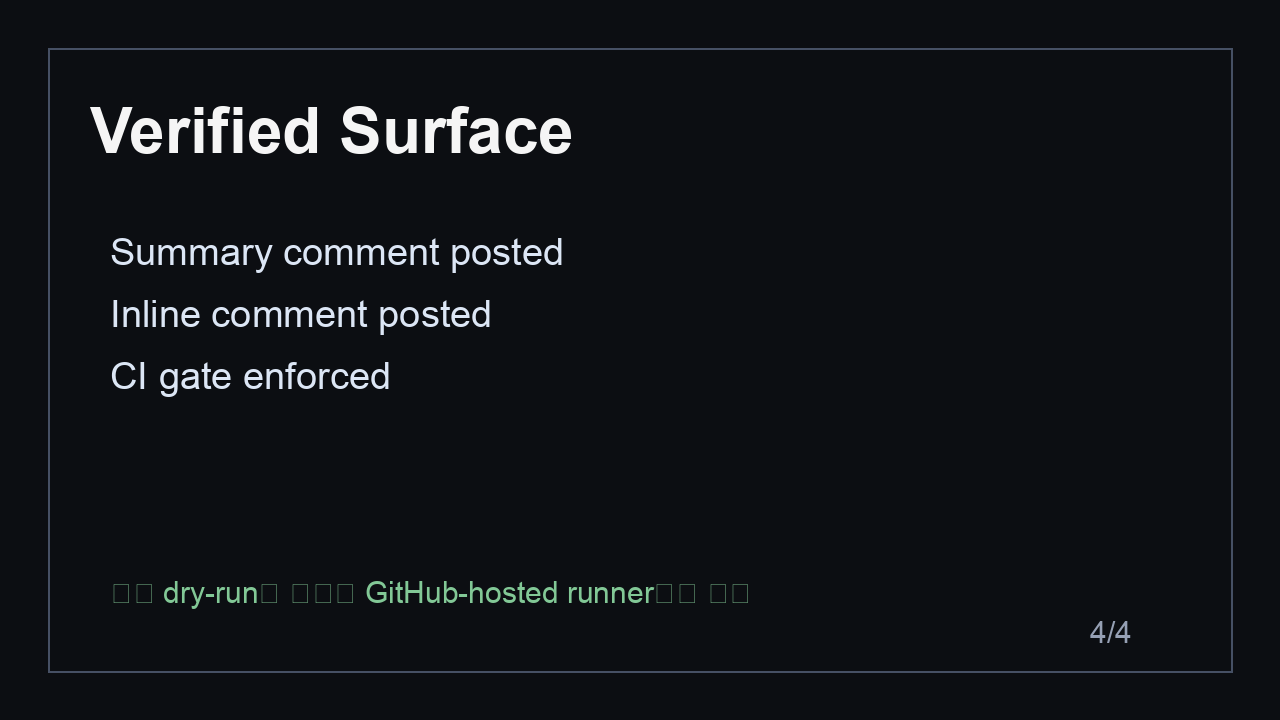
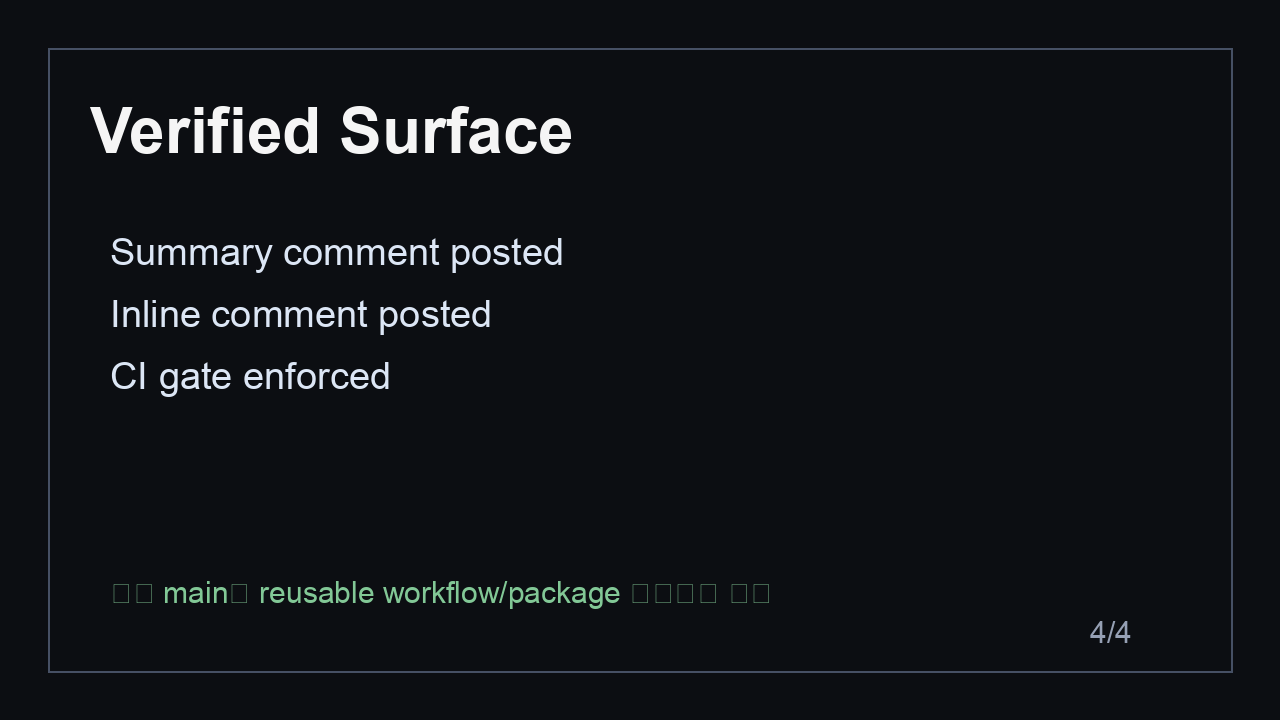
Refresh demo evidence for PR2
Ultraworked with [Sisyphus](https://github.com/code-yeongyu/oh-my-openagent)

Changed region(s): [[0.125, 0.7944, 0.5625, 0.8556]]

diff --git a/demo/gemma-review-demo.md b/demo/gemma-review-demo.md
@@ -4,10 +4,10 @@
 
 ## Live targets
 
-- PR: https://github.com/bssm-oss/gemmaci/pull/1
-- Actions run: https://github.com/bssm-oss/gemmaci/actions/runs/26008433761
-- Summary comment: https://github.com/bssm-oss/gemmaci/pull/1#issuecomment-4473316875
-- Inline finding: https://github.com/bssm-oss/gemmaci/pull/1#discussion_r3255873674
+- PR: https://github.com/bssm-oss/gemmaci/pull/2
+- Actions run: https://github.com/bssm-oss/gemmaci/actions/runs/26009211725
+- Summary comment: https://github.com/bssm-oss/gemmaci/pull/2#issuecomment-4473499320
+- Inline finding: https://github.com/bssm-oss/gemmaci/pull/2#discussion_r3255933478
 
 ## What happened
 
@@ -26,10 +26,10 @@
 
 ## Included data files
 
-- `pr-1-demo-data.json`: PR status, comments, checks, files.
-- `run-26008433761-demo-data.json`: Actions run and job details.
-- `pr-1-inline-comments.json`: inline PR comments, including the Gemma reviewer comment.
-- `run-26008433761-artifacts.json`: Actions artifacts from the run.
+- `pr-2-demo-data.json`: PR status, comments, checks, files.
+- `run-26009211725-demo-data.json`: Actions run and job details.
+- `pr-2-inline-comments.json`: inline PR comments, including the Gemma reviewer comment.
+- `run-26009211725-artifacts.json`: Actions artifacts from the run.
 
 ## Optional video capture
 
@@ -37,7 +37,7 @@ On macOS, record the PR and Actions run with:
 
 ```bash
 mkdir -p demo
-open -a "Google Chrome" "https://github.com/bssm-oss/gemmaci/pull/1"
+open -a "Google Chrome" "https://github.com/bssm-oss/gemmaci/pull/2"
 sleep 3
 screencapture -v -V 45 -k -D 1 "demo/gemma-review-demo.mov"
 ffmpeg -y -i "demo/gemma-review-demo.mov" \